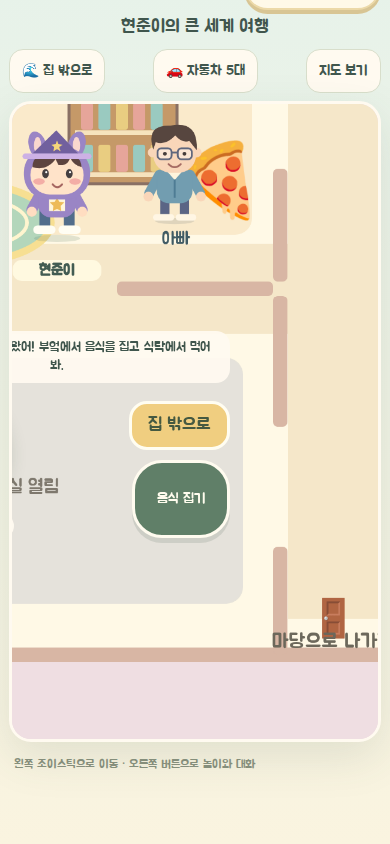
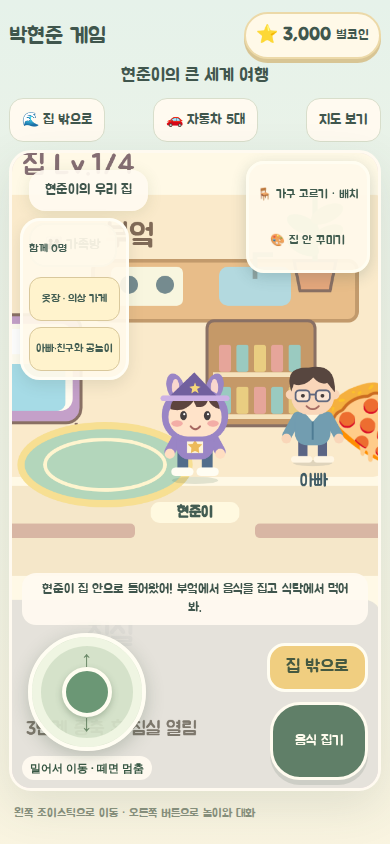
fix: keep indoor camera centered after mobile scene transitions

diff --git a/src/components/hyunjun/adventure.css b/src/components/hyunjun/adventure.css
@@ -2038,3 +2038,11 @@
   font-size: 32px;
   line-height: 1;
 }
+/* Camera transforms own panning; browser focus/scroll anchoring must never pan the world. */
+.kid-world-shell {
+  overflow-anchor: none;
+}
+.kid-world-shell .adv-viewport {
+  overflow: clip;
+  overflow-anchor: none;
+}

diff --git a/docs/world-expansion/2026-10-11-v0.1.0/16_CHILD_PLAY.md b/docs/world-expansion/2026-10-11-v0.1.0/16_CHILD_PLAY.md
@@ -21,8 +21,9 @@
 
 ## 자동 검증 결과
 
-- 단위 테스트 91개 통과. 타입 검사 및 Pages 빌드 성공. 린트 오류 0개, 기존 Fast Refresh 경고 8개.
+- 원래 개선 기능의 단위 테스트 91개 통과. 추가 통합 변경을 포함한 `6f97447` 기준 분리 작업 공간에서는 96개 통과. 타입 검사 및 Pages 빌드 성공. 린트 오류 0개, 기존 Fast Refresh 경고 8개.
 - 새 성장·놀이 경로 전체와 재접속 잔액 유지 검증 통과.
+- 휴대폰에서 집 입장 후 브라우저의 자동 스크롤이 카메라를 밀던 문제를 수정했다. 게임 영역을 스크롤되지 않는 클리핑 영역으로 바꾸고 입장 후 내부 스크롤 0 및 캐릭터 중앙 배치를 검증한다.
 - 기존 가족 동행·초대·의상·집 놀이, 식당 6곳, 야외 축제, 11월 이벤트 제한, 멀티터치·펜 취소, 월드 양쪽 경계 검증 통과.
 - 임무 표시 SVG를 화면 주변으로 제한해 과도한 그리기 면적을 방지했다. 마지막 경계 시나리오의 headless 프레임 간격 p95는 44~51ms였다. 실제 기기 성능 보장은 아니다.
 
